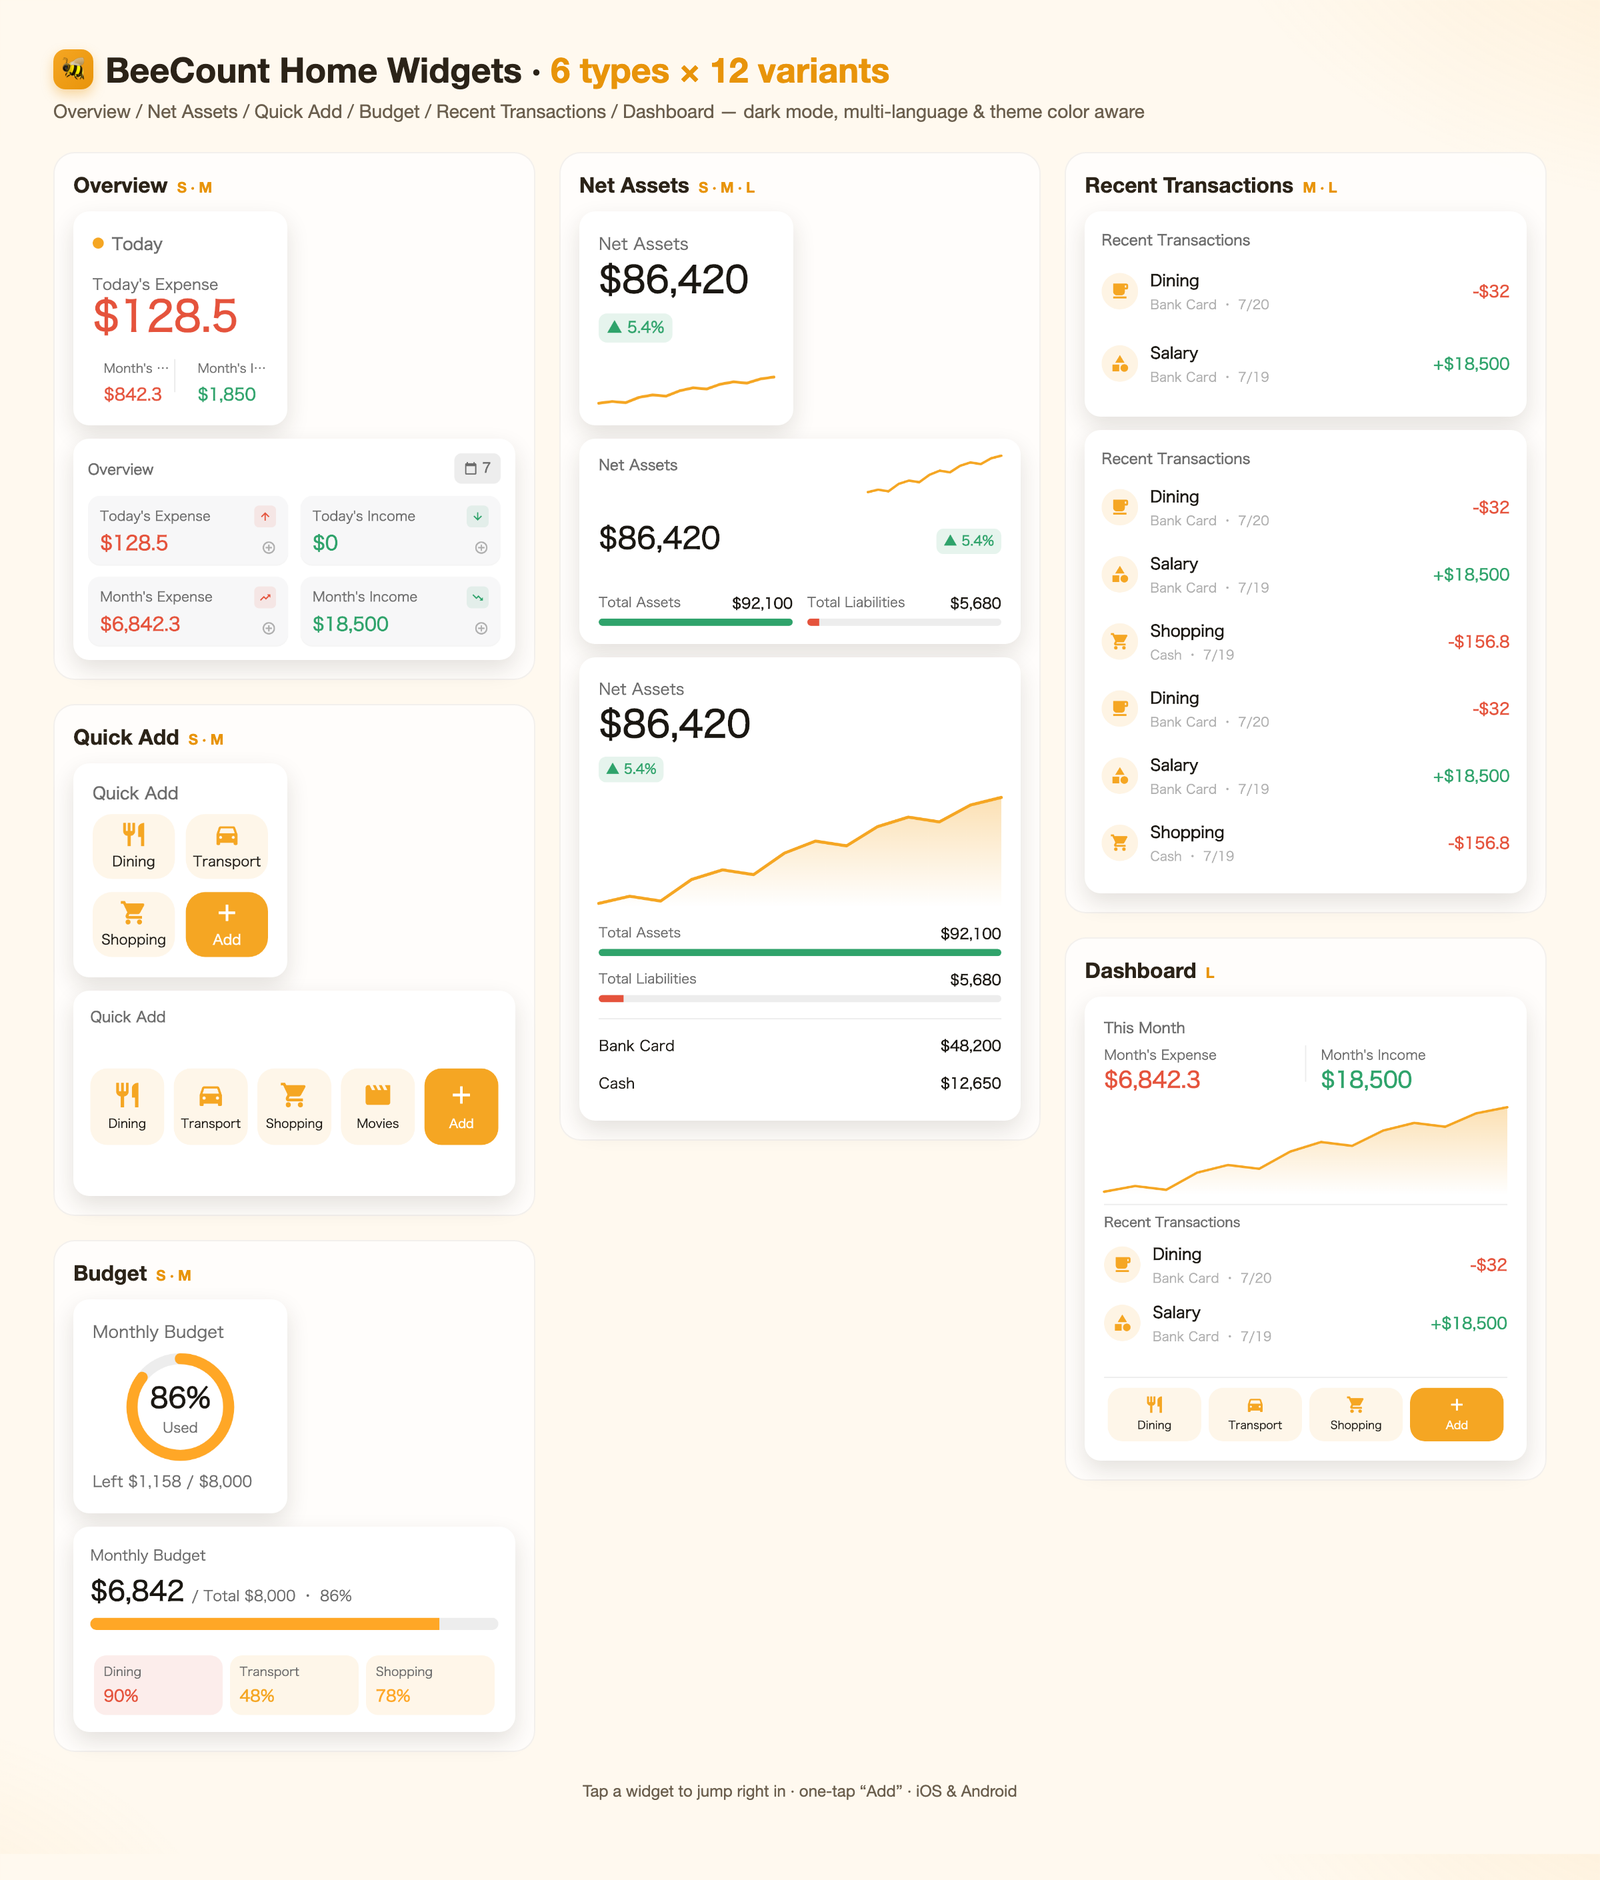
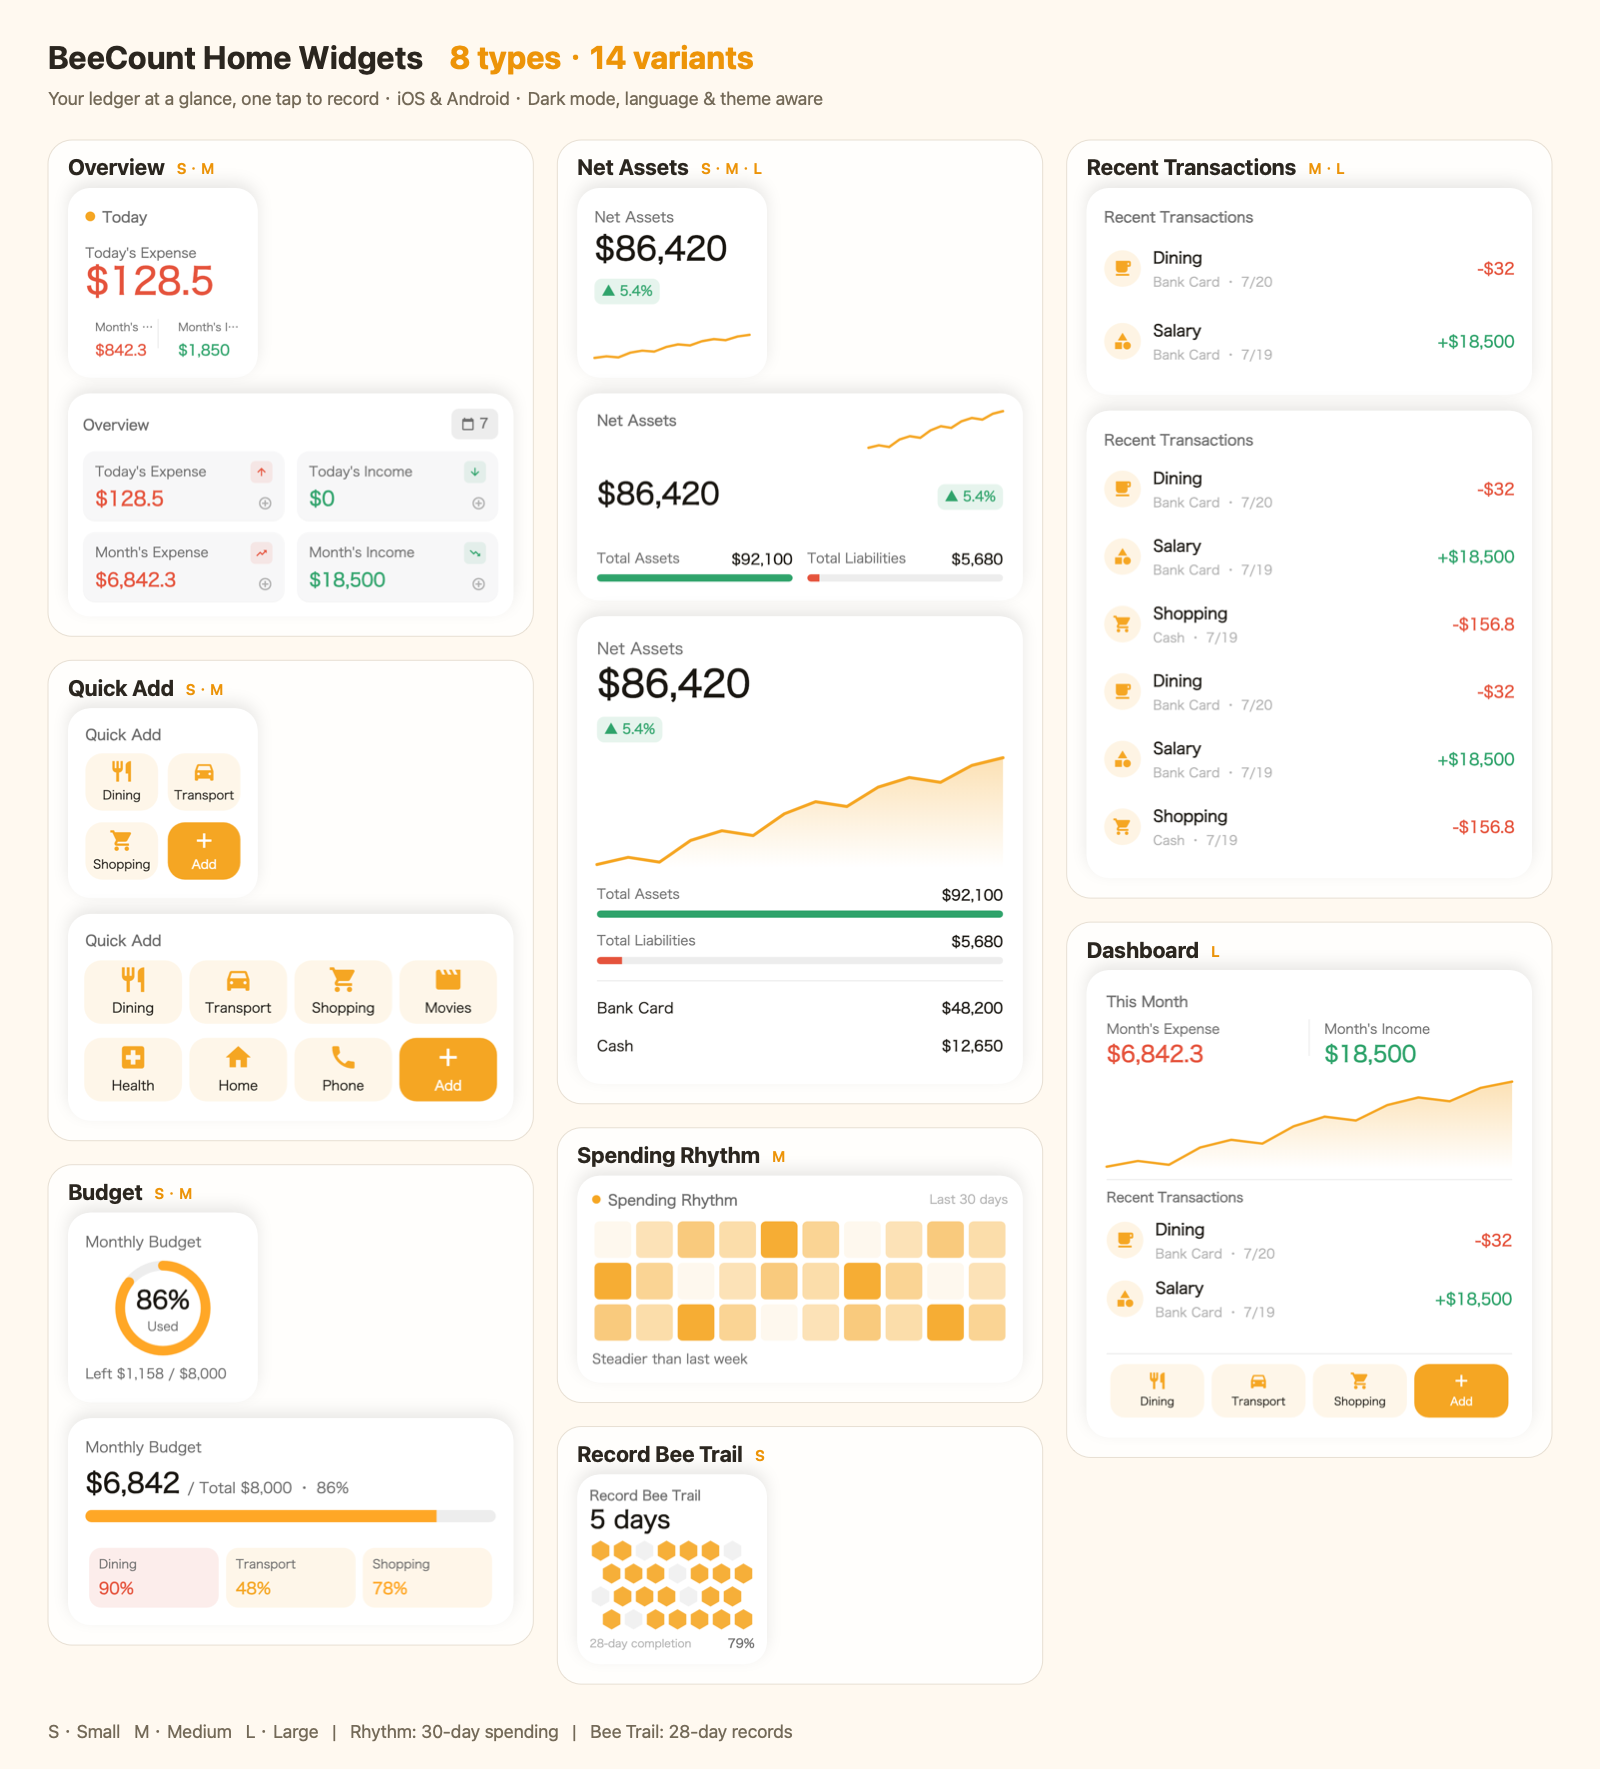
docs: 补充 Web 暗黑预览并更新小组件展示

diff --git a/src/pages/index.tsx b/src/pages/index.tsx
@@ -127,7 +127,7 @@ function DeviceShowcase() {
         </div>
       </div>
 
-      {/* Web: matching landscape windows in the same light theme. */}
+      {/* Web: light transactions and a dark dashboard, with matching landscape ratios. */}
       <div
         className={clsx(styles.deviceView, styles.deviceViewWeb)}
         style={{ opacity: mode === 'web' ? 1 : 0, pointerEvents: mode === 'web' ? 'auto' : 'none' }}
@@ -159,8 +159,8 @@ function DeviceShowcase() {
               <div className={styles.browserUrl}>{isZh ? '仪表盘' : 'Dashboard'}</div>
             </div>
             <img
-              src={`/img/preview/web/${lang}-01-home.png`}
-              alt={translate({id: 'homepage.webShowcase.alt.home', message: 'Web 仪表盘'})}
+              src={`/img/preview/web/${lang}-01-home-dark.png`}
+              alt={translate({id: 'homepage.hero.preview.webDark', message: 'Web 仪表盘暗黑模式'})}
               className={styles.browserScreen}
             />
           </div>

diff --git a/src/pages/index.module.css b/src/pages/index.module.css
@@ -660,12 +660,12 @@
   animation: browserFloat 4s ease-in-out infinite;
 }
 
-/* 后景与前景保持相同主题及截图比例。 */
+/* 后景为暗黑仪表盘，与前景保持相同截图比例。 */
 .browserFrameBack {
   z-index: 1;
   right: 0;
   top: 80px;
-  background: #fafafa;
+  background: #17181d;
   box-shadow:
     0 30px 80px rgba(0, 0, 0, 0.55),
     0 0 0 1px rgba(255, 255, 255, 0.08),
@@ -676,13 +676,13 @@
 }
 
 .browserFrameBack .browserChrome {
-  background: #ececec;
-  border-bottom-color: rgba(0, 0, 0, 0.08);
+  background: #292a2f;
+  border-bottom-color: rgba(255, 255, 255, 0.08);
 }
 
 .browserFrameBack .browserUrl {
-  color: rgba(0, 0, 0, 0.55);
-  background: rgba(0, 0, 0, 0.05);
+  color: rgba(255, 255, 255, 0.65);
+  background: rgba(255, 255, 255, 0.06);
 }
 
 @keyframes browserFloat {

diff --git a/i18n/en/docusaurus-plugin-content-docs/current/record/widgets.md b/i18n/en/docusaurus-plugin-content-docs/current/record/widgets.md
@@ -6,9 +6,7 @@ keywords: [BeeCount widgets, home screen widget, expense tracker widget, quick a
 
 # Home Screen Widgets
 
-> ✨ **Fully upgraded in v3.7.0**: from a single style to **6 content types × 12 size variants**, on both iOS and Android.
-
-> 🐝 **Two additions in v3.8.3**: medium Spending Rhythm and small Record Bee Trail bring the total to **8 content types and 14 size variants**.
+**8 content types and 14 size variants** on both iOS and Android, including medium Spending Rhythm and small Record Bee Trail added in v3.8.3.
 
 Pin your books to the home screen — see today's spending, your net worth trend, and what's left of the budget without opening the app. Want to record something? Tap a category button on the widget and jump straight into the record screen.
 
@@ -26,8 +24,6 @@ Pin your books to the home screen — see today's spending, your net worth trend
 | Dashboard | L | Monthly overview + trend + recent records + quick add, all in one | Each block jumps to its matching page |
 | Spending Rhythm | M | Spending heatmap for the last 30 days and a comparison of the latest seven days with the previous seven | Opens statistics |
 | Record Bee Trail | S | Recorded-day honeycomb, current streak, and recorded-day percentage over the last 28 days | Opens transactions |
-
-The lineup image above shows the v3.7.0 styles. Preview the two new widgets in your system widget picker.
 
 ## Spending Rhythm and Record Bee Trail
 

diff --git a/docs/record/widgets.md b/docs/record/widgets.md
@@ -6,9 +6,7 @@ keywords: [蜜蜂记账小组件, 桌面小组件, 记账 widget, 快速记账, 
 
 # 桌面小组件
 
-> ✨ **v3.7.0 全面升级**:从单一款式扩展为 **6 类内容 × 12 种规格**,iOS 与 Android 都支持。
-
-> 🐝 **v3.8.3 新增两款**：「消费节奏」中号与「记账连续蜂迹」小号，现共 **8 类内容、14 种规格**。
+共 **8 类内容、14 种规格**，iOS 与 Android 都支持，包含 v3.8.3 新增的「消费节奏」中号与「记账连续蜂迹」小号。
 
 把账本"钉"在桌面上——不打开 App 也能看到今天花了多少、净资产走势、预算还剩多少;想记一笔时,点小组件上的分类按钮直接进记账页。
 
@@ -26,8 +24,6 @@ keywords: [蜜蜂记账小组件, 桌面小组件, 记账 widget, 快速记账, 
 | 综合仪表盘 | 大 | 本月概览 + 走势 + 最近交易 + 快速记账,一屏全有 | 各区块分别直达对应页面 |
 | 消费节奏 | 中 | 近 30 天支出热力格，以及最近七天与前七天的节奏提示 | 打开统计页 |
 | 记账连续蜂迹 | 小 | 近 28 天记账蜂巢格、当前连续天数与记录天数占比 | 打开明细页 |
-
-上方全家福展示的是 v3.7.0 款式；两款新增组件可在系统添加面板中查看预览。
 
 ## 消费节奏与记账连续蜂迹
 
